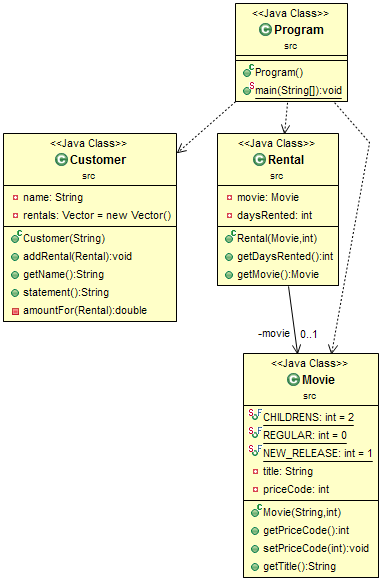
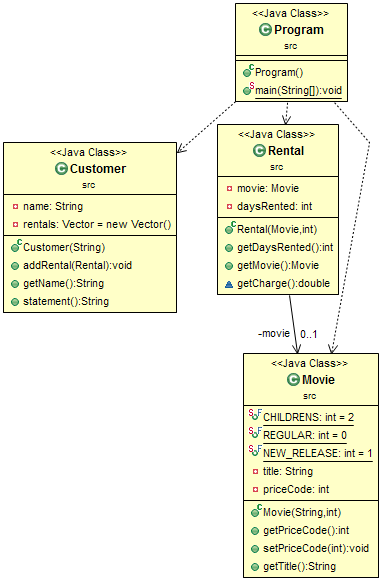
Moved method amountFor into Rental class
-Formatting Rental class
-Methods used : Move Method,Rename Method
- Moved method amountFor to Rental class and renamed it to getCharge

Changed region(s): [[0.0, 0.2169, 0.4607, 0.5577], [0.5471, 0.1859, 0.8927, 0.5577]]

diff --git a/src/src/Customer.java b/src/src/Customer.java
@@ -28,11 +28,8 @@ class Customer {
 				+ "\n";
 
 		while (enum_rentals.hasMoreElements()) {
-			double thisAmount = 0;
 			Rental each = (Rental) enum_rentals.nextElement();
 			// determine amounts for each line
-			thisAmount = amountFor(each);
-			// add frequent renter points
 			frequentRenterPoints++;
 			// add bonus for a two day new release rental
 			if ((each.getMovie().getPriceCode() == Movie.NEW_RELEASE)
@@ -40,9 +37,9 @@ class Customer {
 				frequentRenterPoints++;
 			// show figures for this rental
 			result += "\t" + each.getMovie().getTitle() + "\t" + "\t"
-					+ each.getDaysRented() + "\t" + String.valueOf(thisAmount)
+					+ each.getDaysRented() + "\t" + String.valueOf(each.getCharge())
 					+ "\n";
-			totalAmount += thisAmount;
+			totalAmount += each.getCharge();
 		}
 		// add footer lines
 		result += "Amount owed is " + String.valueOf(totalAmount) + "\n";
@@ -51,23 +48,5 @@ class Customer {
 		return result;
 	}
 
-	private double amountFor(Rental aRental) {
-		double result = 0;
-		switch (aRental.getMovie().getPriceCode()) {
-		case Movie.REGULAR:
-			result += 2;
-			if (aRental.getDaysRented() > 2)
-				result += (aRental.getDaysRented() - 2) * 1.5;
-			break;
-		case Movie.NEW_RELEASE:
-			result += aRental.getDaysRented() * 3;
-			break;
-		case Movie.CHILDRENS:
-			result += 1.5;
-			if (aRental.getDaysRented() > 3)
-				result += (aRental.getDaysRented() - 3) * 1.5;
-			break;
-		}
-		return result;
-	}
+
 }

diff --git a/src/src/Rental.java b/src/src/Rental.java
@@ -1,16 +1,39 @@
 package src;
 
 class Rental {
-    private Movie movie;
-    private int daysRented;
-    public Rental(Movie newmovie, int newdaysRented) {
-        movie = newmovie;
-        daysRented = newdaysRented;
-    }
-    public int getDaysRented() {
-        return daysRented;
-    }
-    public Movie getMovie() {
-        return movie;
-    }
+	private Movie movie;
+	private int daysRented;
+
+	public Rental(Movie newmovie, int newdaysRented) {
+		movie = newmovie;
+		daysRented = newdaysRented;
+	}
+
+	public int getDaysRented() {
+		return daysRented;
+	}
+
+	public Movie getMovie() {
+		return movie;
+	}
+
+	double getCharge() {
+		double result = 0;
+		switch (getMovie().getPriceCode()) {
+		case Movie.REGULAR:
+			result += 2;
+			if (getDaysRented() > 2)
+				result += (getDaysRented() - 2) * 1.5;
+			break;
+		case Movie.NEW_RELEASE:
+			result += getDaysRented() * 3;
+			break;
+		case Movie.CHILDRENS:
+			result += 1.5;
+			if (getDaysRented() > 3)
+				result += (getDaysRented() - 3) * 1.5;
+			break;
+		}
+		return result;
+	}
 }
